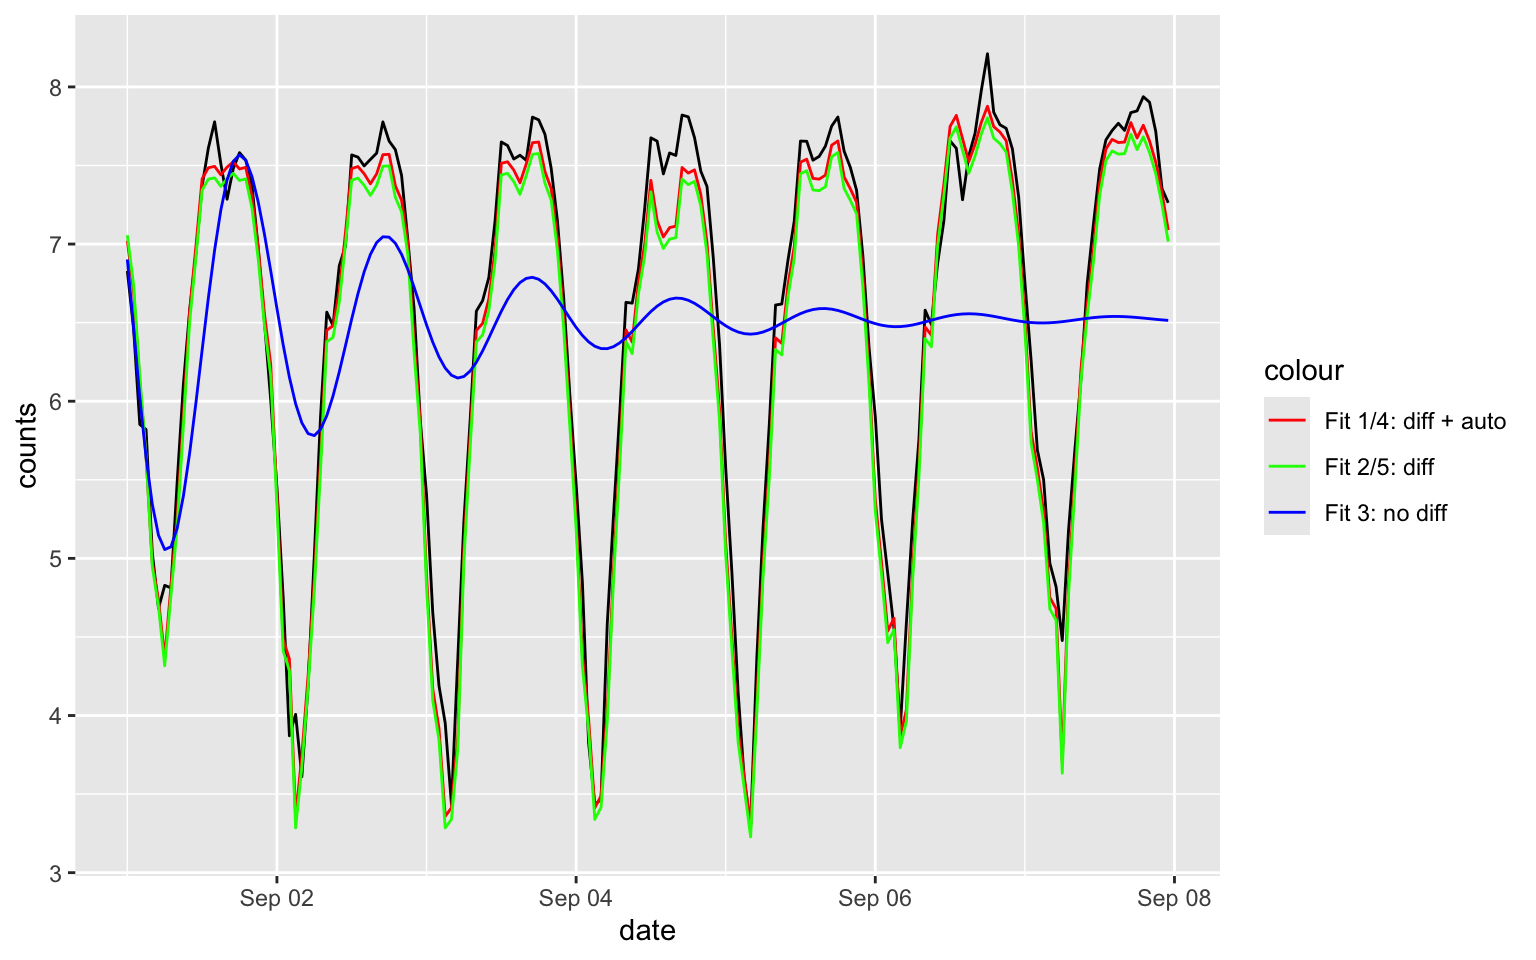
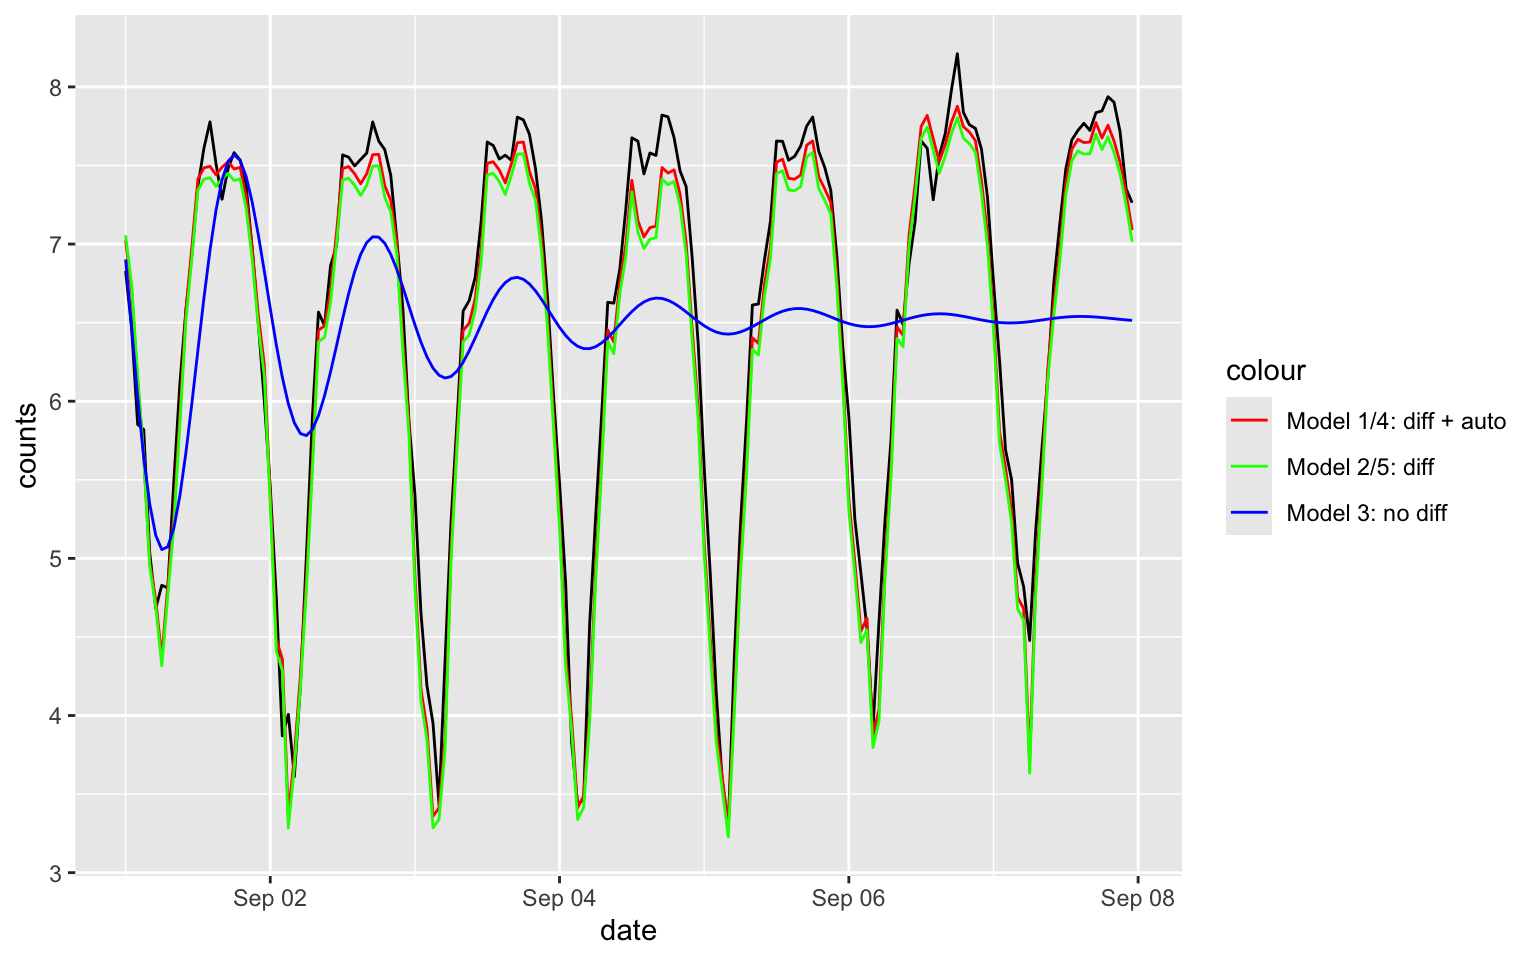
Updated

diff --git a/Week2.html b/Week2.html
@@ -308,22 +308,22 @@ class="toc-section-number">1</span> Dataset</a></li>
 <li><a href="#arima" id="toc-arima"><span
 class="toc-section-number">2</span> ARIMA</a>
 <ul>
-<li><a href="#fit-1" id="toc-fit-1"><span
-class="toc-section-number">2.1</span> Fit 1</a></li>
-<li><a href="#fit-2" id="toc-fit-2"><span
-class="toc-section-number">2.2</span> Fit 2</a></li>
-<li><a href="#fit-3" id="toc-fit-3"><span
-class="toc-section-number">2.3</span> Fit 3</a></li>
+<li><a href="#model-1" id="toc-model-1"><span
+class="toc-section-number">2.1</span> Model 1</a></li>
+<li><a href="#model-2" id="toc-model-2"><span
+class="toc-section-number">2.2</span> Model 2</a></li>
+<li><a href="#model-3" id="toc-model-3"><span
+class="toc-section-number">2.3</span> Model 3</a></li>
 </ul></li>
 <li><a href="#seasonal-arima" id="toc-seasonal-arima"><span
 class="toc-section-number">3</span> Seasonal ARIMA</a>
 <ul>
-<li><a href="#fit-4" id="toc-fit-4"><span
-class="toc-section-number">3.1</span> Fit 4</a></li>
-<li><a href="#fit-5" id="toc-fit-5"><span
-class="toc-section-number">3.2</span> Fit 5</a></li>
-<li><a href="#fit-6" id="toc-fit-6"><span
-class="toc-section-number">3.3</span> Fit 6</a></li>
+<li><a href="#model-4" id="toc-model-4"><span
+class="toc-section-number">3.1</span> Model 4</a></li>
+<li><a href="#model-5" id="toc-model-5"><span
+class="toc-section-number">3.2</span> Model 5</a></li>
+<li><a href="#model-6" id="toc-model-6"><span
+class="toc-section-number">3.3</span> Model 6</a></li>
 </ul></li>
 <li><a href="#forecasting" id="toc-forecasting"><span
 class="toc-section-number">4</span> Forecasting</a></li>
@@ -374,9 +374,8 @@ autoplot(melb_sel[1:336, ], counts) +
 <div id="arima" class="section level1" number="2">
 <h1><span class="header-section-number">2</span> ARIMA</h1>
 <p>First, we test whether the dataset is stationary. As you can see,
-KPSS fails to reject null hypothesis, meaning the dataset is stationary.
-Although it is stationary, I will still consider a weekly difference + a
-lag 1 difference.</p>
+KPSS fails to reject null hypothesis, meaning the dataset is
+stationary.</p>
 <pre class="r"><code>melb_sel[1:2208, ] %&gt;% features(counts, unitroot_kpss)</code></pre>
 <pre><code>## # A tibble: 1 × 2
 ##   kpss_stat kpss_pvalue
@@ -414,13 +413,13 @@ is MA(3).</p>
 <ul>
 <li>I will build three model.
 <ul>
-<li>fit1: automatic procedure for the <em>diff_week</em></li>
-<li>fit2: MA(3) for the <em>diff_week</em></li>
-<li>fit3: automatic procedure for the <em>counts</em></li>
+<li>Model 1: automatic procedure for the <em>diff_week</em></li>
+<li>Model 2: MA(3) for the <em>diff_week</em></li>
+<li>Model 3: automatic procedure for the <em>counts</em></li>
 </ul></li>
 </ul>
-<div id="fit-1" class="section level2" number="2.1">
-<h2><span class="header-section-number">2.1</span> Fit 1</h2>
+<div id="model-1" class="section level2" number="2.1">
+<h2><span class="header-section-number">2.1</span> Model 1</h2>
 <pre class="r"><code>fit1 &lt;- melb_sel[170:2208, ] %&gt;%
   model(ARIMA(diff_week ~ PDQ(0,0,0), stepwise = TRUE))
 report(fit1)</code></pre>
@@ -443,8 +442,8 @@ report(fit1)</code></pre>
 ##   &lt;chr&gt;                                              &lt;dbl&gt;     &lt;dbl&gt;
 ## 1 ARIMA(diff_week ~ PDQ(0, 0, 0), stepwise = TRUE)    5.10     0.647</code></pre>
 </div>
-<div id="fit-2" class="section level2" number="2.2">
-<h2><span class="header-section-number">2.2</span> Fit 2</h2>
+<div id="model-2" class="section level2" number="2.2">
+<h2><span class="header-section-number">2.2</span> Model 2</h2>
 <pre class="r"><code>fit2 &lt;- melb_sel[170:2208, ] %&gt;% 
   model(ARIMA(diff_week ~ pdq(0,0,3) + PDQ(0,0,0)))
 report(fit2)</code></pre>
@@ -467,8 +466,8 @@ report(fit2)</code></pre>
 ##   &lt;chr&gt;                                            &lt;dbl&gt;     &lt;dbl&gt;
 ## 1 ARIMA(diff_week ~ pdq(0, 0, 3) + PDQ(0, 0, 0))    59.4  2.03e-10</code></pre>
 </div>
-<div id="fit-3" class="section level2" number="2.3">
-<h2><span class="header-section-number">2.3</span> Fit 3</h2>
+<div id="model-3" class="section level2" number="2.3">
+<h2><span class="header-section-number">2.3</span> Model 3</h2>
 <pre class="r"><code>fit3 &lt;- melb_sel[1:2208,] %&gt;% 
   model(ARIMA(counts ~ PDQ(0,0,0), stepwise = TRUE))
 report(fit3)</code></pre>
@@ -491,7 +490,7 @@ report(fit3)</code></pre>
 ##   &lt;chr&gt;                                           &lt;dbl&gt;     &lt;dbl&gt;
 ## 1 ARIMA(counts ~ PDQ(0, 0, 0), stepwise = TRUE)    122.         0</code></pre>
 <ul>
-<li>Fit 1 appears to be the best, although there are still some
+<li>Model 1 appears to be the best, although there are still some
 problems. Here is my personal opinion
 <ul>
 <li>In the real-world dataset, the result is often not as good as the
@@ -508,18 +507,18 @@ difference with (lag = 24).</li>
 <ul>
 <li>I will consider the following model
 <ul>
-<li>fit4: (2,1,1)(0,1,0)<span class="math inline">\(_{168}\)</span> for
-the <em>counts</em>, it is the same model as fit1</li>
-<li>fit5: (0,1,3)(0,1,0)<span class="math inline">\(_{168}\)</span> for
-the <em>counts</em>, it is the same model as fit2</li>
-<li>fit6: automatic selection for ( ,1, )(,1, )<span
-class="math inline">\(_168\)</span> for the <em>counts</em></li>
+<li>Model 4: (2,1,1)(0,1,0)<span class="math inline">\(_{168}\)</span>
+for the <em>counts</em>, it is the same model as Model 1</li>
+<li>Model 5: (0,1,3)(0,1,0)<span class="math inline">\(_{168}\)</span>
+for the <em>counts</em>, it is the same model as Model 2</li>
+<li>Model 6: automatic selection for ( ,1, )(,1, )<span
+class="math inline">\(_{168}\)</span> for the <em>counts</em></li>
 </ul></li>
 </ul>
-<div id="fit-4" class="section level2" number="3.1">
-<h2><span class="header-section-number">3.1</span> Fit 4</h2>
+<div id="model-4" class="section level2" number="3.1">
+<h2><span class="header-section-number">3.1</span> Model 4</h2>
 <p><span class="math inline">\(\phi\)</span>’s and <span
-class="math inline">\(\theta\)</span>s are the same as Fit 1, but AIC,
+class="math inline">\(\theta\)</span>s are the same as Model 1, but AIC,
 BIC and AICc are different.</p>
 <pre class="r"><code>fit4 &lt;- melb_sel[1:2208, ] %&gt;% 
   model(ARIMA(counts ~ pdq(2,1,1) + PDQ(0,1,0, period = 168)))
@@ -542,8 +541,8 @@ report(fit4)</code></pre>
 ##   &lt;chr&gt;                                                       &lt;dbl&gt;     &lt;dbl&gt;
 ## 1 ARIMA(counts ~ pdq(2, 1, 1) + PDQ(0, 1, 0, period = 168))    5.46     0.604</code></pre>
 </div>
-<div id="fit-5" class="section level2" number="3.2">
-<h2><span class="header-section-number">3.2</span> Fit 5</h2>
+<div id="model-5" class="section level2" number="3.2">
+<h2><span class="header-section-number">3.2</span> Model 5</h2>
 <pre class="r"><code>fit5 &lt;- melb_sel[1:2208, ] %&gt;% 
   model(ARIMA(counts ~ pdq(0,1,3) + PDQ(0,1,0, period = 168)))
 report(fit5)</code></pre>
@@ -565,8 +564,8 @@ report(fit5)</code></pre>
 ##   &lt;chr&gt;                                                       &lt;dbl&gt;     &lt;dbl&gt;
 ## 1 ARIMA(counts ~ pdq(0, 1, 3) + PDQ(0, 1, 0, period = 168))    64.0  2.37e-11</code></pre>
 </div>
-<div id="fit-6" class="section level2" number="3.3">
-<h2><span class="header-section-number">3.3</span> Fit 6</h2>
+<div id="model-6" class="section level2" number="3.3">
+<h2><span class="header-section-number">3.3</span> Model 6</h2>
 <pre class="r"><code>## The following codes take quite a while to run
 #fit6 &lt;- melb_sel[1:2208, ] %&gt;% 
 #  model(ARIMA(counts ~ pdq(,1,) + PDQ(,1,, period = 168)))
@@ -581,8 +580,8 @@ report(fit5)</code></pre>
 <pre class="r"><code>forecast(fit3, h = 24) %&gt;%
   autoplot(melb_sel[2209:2233,])</code></pre>
 <p><img src="Week2_files/figure-html/unnamed-chunk-14-1.png" width="768" style="display: block; margin: auto;" /></p>
-<p>I will not recommend you to use Fit1/Fit2 for the forecasting the
-<em>counts</em>, since it is difficult to transform the prediction
+<p>I will not recommend you to use Model 1/Model 2 for the forecasting
+the <em>counts</em>, since it is difficult to transform the prediction
 interval. Instead, using the corresponding seasonal-ARIMA model if you
 can.</p>
 <p>MSE</p>
@@ -609,10 +608,10 @@ melb_sel$tf4[idx] = tmp4$.mean
 melb_sel$tf5[idx] = tmp5$.mean
 
 ggplot(data = melb_sel[idx, ], aes(x = date, y = counts)) + geom_line() +
-  geom_line(aes(x = date, y = tf4, color = &quot;Fit 1/4: diff + auto&quot;)) + 
-  geom_line(aes(x = date, y = tf5, color = &quot;Fit 2/5: diff&quot;)) + 
-  geom_line(aes(x = date, y = tf3, color = &quot;Fit 3: no diff&quot;)) + 
-  scale_color_manual(name = &quot;colour&quot;, values = c(&quot;Fit 1/4: diff + auto&quot; = &quot;red&quot;, &quot;Fit 2/5: diff&quot; = &quot;green&quot;, &quot;Fit 3: no diff&quot; = &quot;blue&quot;))</code></pre>
+  geom_line(aes(x = date, y = tf4, color = &quot;Model 1/4: diff + auto&quot;)) + 
+  geom_line(aes(x = date, y = tf5, color = &quot;Model 2/5: diff&quot;)) + 
+  geom_line(aes(x = date, y = tf3, color = &quot;Model 3: no diff&quot;)) + 
+  scale_color_manual(name = &quot;colour&quot;, values = c(&quot;Model 1/4: diff + auto&quot; = &quot;red&quot;, &quot;Model 2/5: diff&quot; = &quot;green&quot;, &quot;Model 3: no diff&quot; = &quot;blue&quot;))</code></pre>
 <p><img src="Week2_files/figure-html/unnamed-chunk-16-1.png" width="768" style="display: block; margin: auto;" /></p>
 </div>
 <div id="automatic-procedure" class="section level1" number="5">

diff --git a/Week3.html b/Week3.html
@@ -13,7 +13,7 @@
 
 <title>Week 3: Visualisation of Spatial Data (1) – ggplot2</title>
 
-<script src="site_libs/header-attrs-2.19/header-attrs.js"></script>
+<script src="site_libs/header-attrs-2.25/header-attrs.js"></script>
 <script src="site_libs/jquery-3.6.0/jquery-3.6.0.min.js"></script>
 <meta name="viewport" content="width=device-width, initial-scale=1" />
 <link href="site_libs/bootstrap-3.3.5/css/cosmo.min.css" rel="stylesheet" />
@@ -281,6 +281,9 @@ $(document).ready(function () {
 <li>
   <a href="Extra1.html">Extra 1</a>
 </li>
+<li>
+  <a href="Extra2.html">Extra 2</a>
+</li>
       </ul>
       <ul class="nav navbar-nav navbar-right">
         
@@ -310,7 +313,7 @@ class="toc-section-number">1</span> ggplot2</a></li>
 </div>
 <div id="ggplot2" class="section level1" number="1">
 <h1><span class="header-section-number">1</span> ggplot2</h1>
-<p>According to wikipedia and R-project website, <em>``ggplot2 is a data
+<p>From wikipedia and R-project website, <em>``ggplot2 is a data
 visualization package for the statistical programming language R.
 Created by Hadley Wickham in 2005, ggplot2 is an implementation of
 Leland Wilkinson’s Gurky Gang—a general scheme for data visualization
